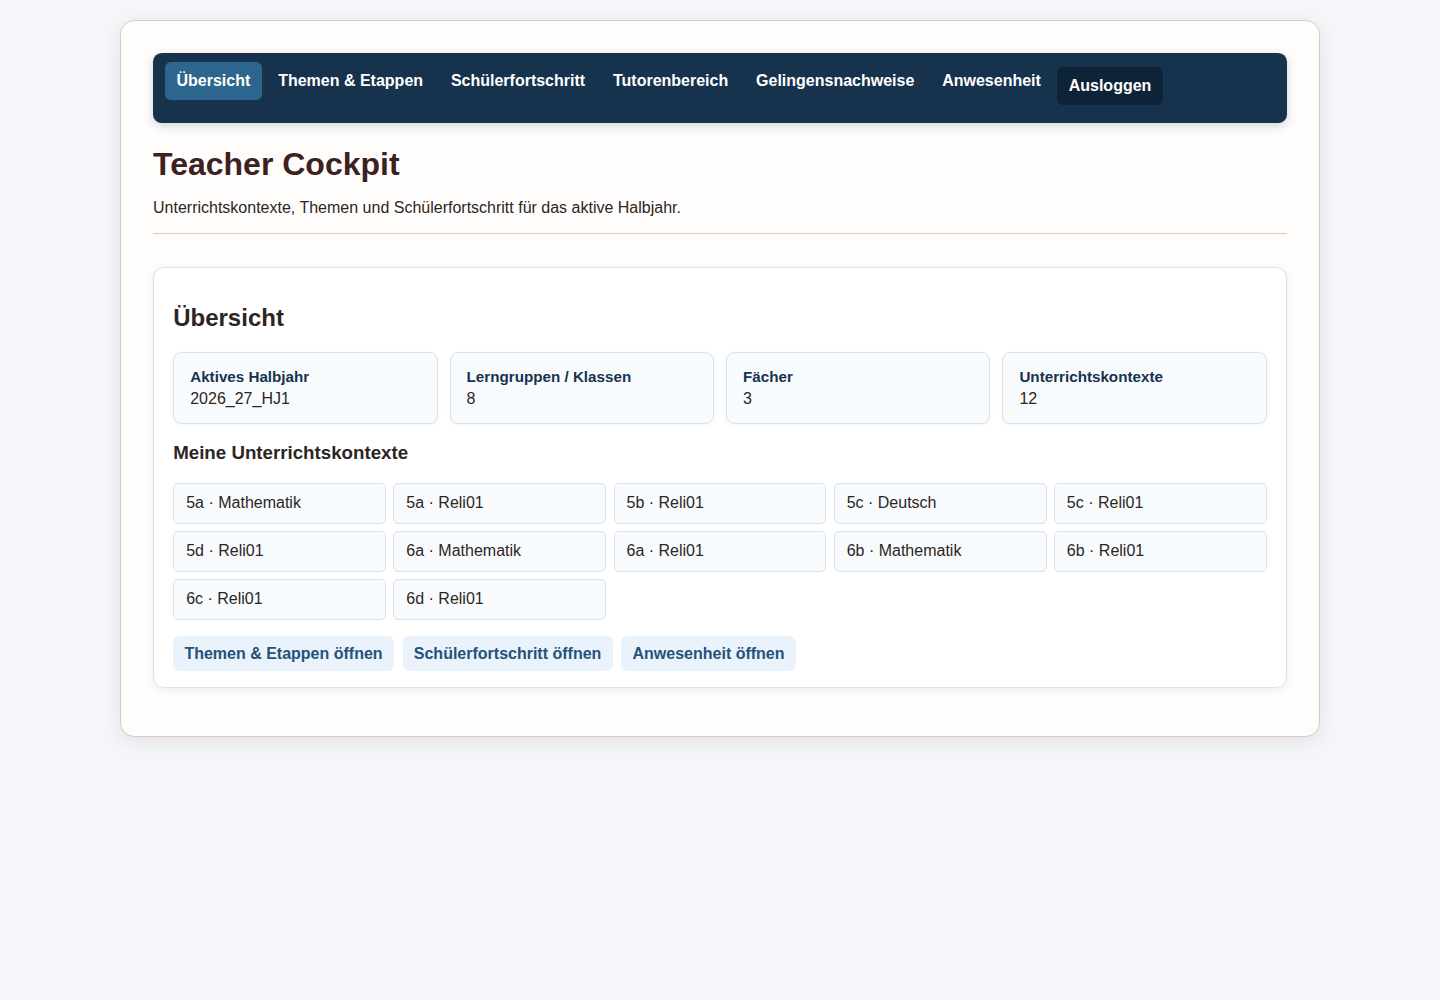
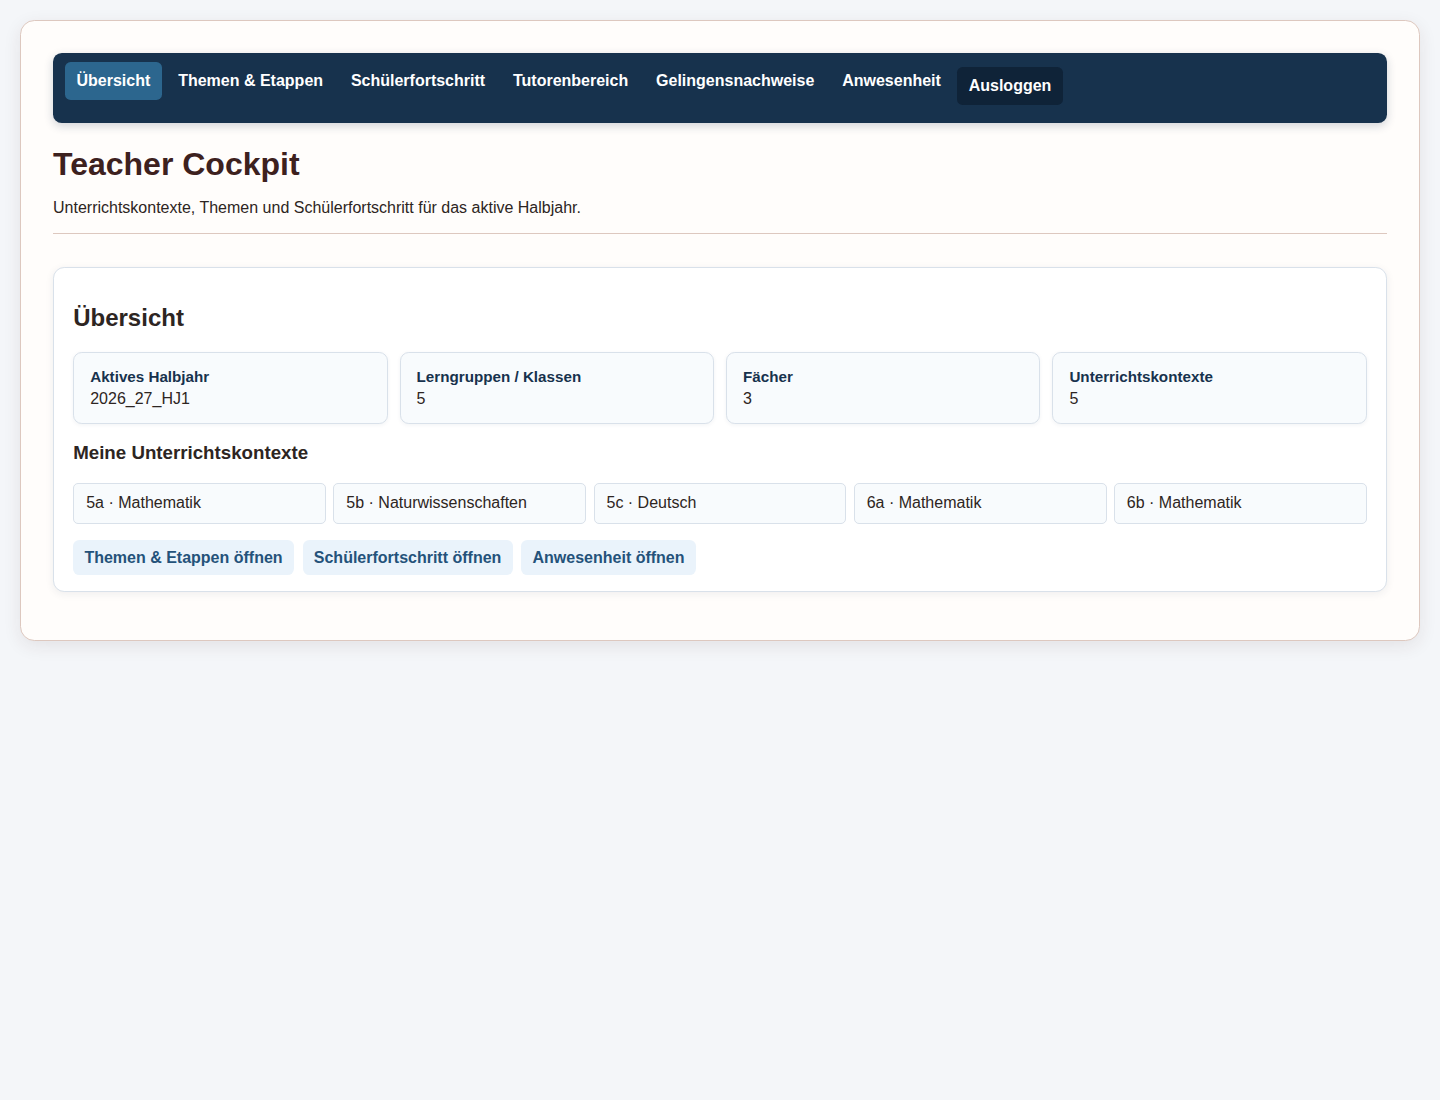
docs: refresh teacher tour after browser acceptance

diff --git a/docs/lehrkraft-und-administration.de.md b/docs/lehrkraft-und-administration.de.md
@@ -7,7 +7,7 @@ Die Aufnahmen stammen aus einem echten DEMO-Abnahmelauf. Die DEMO ist gemeinsam 
 ## 1. Sicher starten
 
 1. Öffne die [öffentliche DEMO](https://arcanum-demo.dynv6.net/login).
-2. Verwende das synthetische Lehrkraftkonto **Leni Lehrerin** aus der öffentlichen PDF. Für diesen Rundgang wurde es ausgewählt, weil Lehrkraftkonten mit Unterrichtskontext und Tutorzuordnung benötigt werden. Der Benutzername steht in der PDF; das Passwort wird hier nicht wiederholt.
+2. Verwende das synthetische Lehrkraftkonto **Leni Lehrerin** aus der öffentlichen PDF. Dieses Konto wurde für die Browserabnahme ausgewählt. Der Benutzername steht in der PDF; das Passwort wird hier nicht wiederholt.
 3. Melde dich an. Prüfe nach dem Login, dass oben die Navigation des Teacher Cockpits mit **Übersicht**, **Themen & Etappen**, **Schülerfortschritt**, **Tutorenbereich**, **Gelingensnachweise** und **Anwesenheit** erscheint.
 4. Klicke für die Besichtigung nur auf Navigation, Auswahlfelder, **Anzeigen/Aktualisieren** und reine Detailansichten. Verwende keine Schaltflächen mit **Freigeben**, **Sperren**, **Bestätigen**, **Speichern**, **Ändern**, **Zurücknehmen**, **Anlegen** oder **Löschen**.
 
@@ -53,7 +53,7 @@ Eine Lehrkraft sieht nicht automatisch jede Klasse und jedes Fach der Schule. Di
 
 ## 4. Themen & Etappen: den Lernplan lesen
 
-Wähle oben **Themen & Etappen**. Oben im Inhalt erscheinen die Filter **Fach** und **Unterrichtskontext**. Wähle einen Kontext und klicke auf **Anzeigen/Aktualisieren**. Im geprüften Lehrkraftbereich wird der vollständige Unterrichtskontext verwendet; Klasse und Fach werden daraus abgeleitet.
+Wähle oben **Themen & Etappen**. Oben im Inhalt erscheint der Filter **Unterrichtskontext**. Wähle einen Kontext und klicke auf **Anzeigen/Aktualisieren**. Im geprüften Lehrkraftbereich wird der vollständige Unterrichtskontext verwendet; Klasse und Fach werden daraus abgeleitet.
 
 ![Themen und Etappen](images/teacher-tour/02-themen-etappen.png)
 
@@ -79,11 +79,11 @@ Die sichtbaren Münzen sind ein Planwert beziehungsweise ein möglicher Leistung
 
 ## 5. Schülerfortschritt: Lernwege nachvollziehen
 
-Wähle **Schülerfortschritt** und anschließend einen Unterrichtskontext. Mit **Aktualisieren** lädst du die zugeordneten Schüler und ihre Signale.
+Wähle **Schülerfortschritt** und anschließend einen Unterrichtskontext. Mit **Aktualisieren** lädst du die zugeordneten Schüler und ihre Signale. Wenn einem Kontext aktuell keine Schüler zugeordnet sind, zeigt die DEMO stattdessen ausdrücklich eine leere Ansicht an.
 
 ![Schülerfortschritt](images/teacher-tour/03-schuelerfortschritt.png)
 
-Die Tabelle ordnet die Informationen pro Schüler:
+Wenn Schüler zugeordnet sind, ordnet die Tabelle die Informationen pro Schüler:
 
 - **Details:** Öffnet die Detailansicht des ausgewählten Schülers im Kontext.
 - **In Bearbeitung:** Zeigt, ob eine Etappe aktuell bearbeitet wird.
@@ -92,7 +92,7 @@ Die Tabelle ordnet die Informationen pro Schüler:
 - **Will experimentieren:** Das Signal für Betreuungsbedarf bei einem Experiment.
 - **Bereit für Gelingensnachweis:** Die Meldung des Schülers, dass er sich für einen Nachweis bereit fühlt.
 
-Ein Gedankenstrich bedeutet: Für diesen Kontext liegt aktuell kein entsprechendes Signal vor. **Keine Etappe in Bearbeitung** bedeutet nicht, dass der Schüler nichts gelernt hat; bestandene Etappen und Münzen werden in den passenden Detail- und Fachansichten betrachtet.
+Ein Gedankenstrich bedeutet: Für diesen Kontext liegt aktuell kein entsprechendes Signal vor. **Keine Etappe in Bearbeitung** bedeutet nicht, dass der Schüler nichts gelernt hat; bestandene Etappen und Münzen werden in den passenden Detail- und Fachansichten betrachtet. Die bei der Browserabnahme sichtbare Meldung **Für diesen Unterrichtskontext sind keine Schüler zugeordnet** ist ein gültiger Datenzustand und kein Fehler der Seite.
 
 ### Pädagogische Verwendung
 
@@ -104,7 +104,7 @@ Der Rundgang verändert keine Schülerarbeit. Das Öffnen der Details ist unbede
 
 ## 6. Gelingensnachweise: Bereitschaft einordnen
 
-Wähle **Gelingensnachweise**. Die Seite heißt **Gelingensnachweise und auffällige Etappen** und bietet eine schulweite Übersicht aktiver Schüler, die für einen Gelingensnachweis bereit sind oder bei einer Etappe wiederholt Schwierigkeiten zeigen.
+Wähle **Gelingensnachweise**. Die Seite heißt **Gelingensnachweise und auffällige Etappen** und bietet eine schulweite Übersicht aktiver Schüler, die für einen Gelingensnachweis bereit sind oder bei einer Etappe wiederholt Schwierigkeiten zeigen. Wenn aktuell keine passenden Einträge vorhanden sind, bleibt die Tabelle leer und zeigt dies ausdrücklich an.
 
 ![Gelingensnachweise](images/teacher-tour/04-gelingensnachweise.png)
 
@@ -124,7 +124,7 @@ Wähle **Tutorenbereich**. Dieser Bereich ist nur sinnvoll gefüllt, wenn das Le
 
 ![Tutorenbereich](images/teacher-tour/05-tutorenbereich.png)
 
-Wähle im Feld **Tutor-Klasse** eine zugeordnete Klasse und klicke auf **Übersicht laden**. Die Ansicht zeigt eine Wochenübersicht für Gespräche sowie pro Schüler die fachbezogenen Münzen, Noten und die Graduierung.
+Wähle im Feld **Tutor-Klasse** eine angebotene Klasse und klicke auf **Übersicht laden**. Bei passender Curriculum-Zuordnung zeigt die Ansicht eine Wochenübersicht für Gespräche sowie pro Schüler die fachbezogenen Münzen, Noten und die Graduierung. Passt die Tutor-Klasse nicht zum aktuellen Curriculum-Kontext des Kontos, zeigt die DEMO stattdessen einen entsprechenden Hinweis; das ist kein Grund, Daten zu ändern oder eine andere Rolle zu verwenden.
 
 ### So liest du die Übersicht
 
